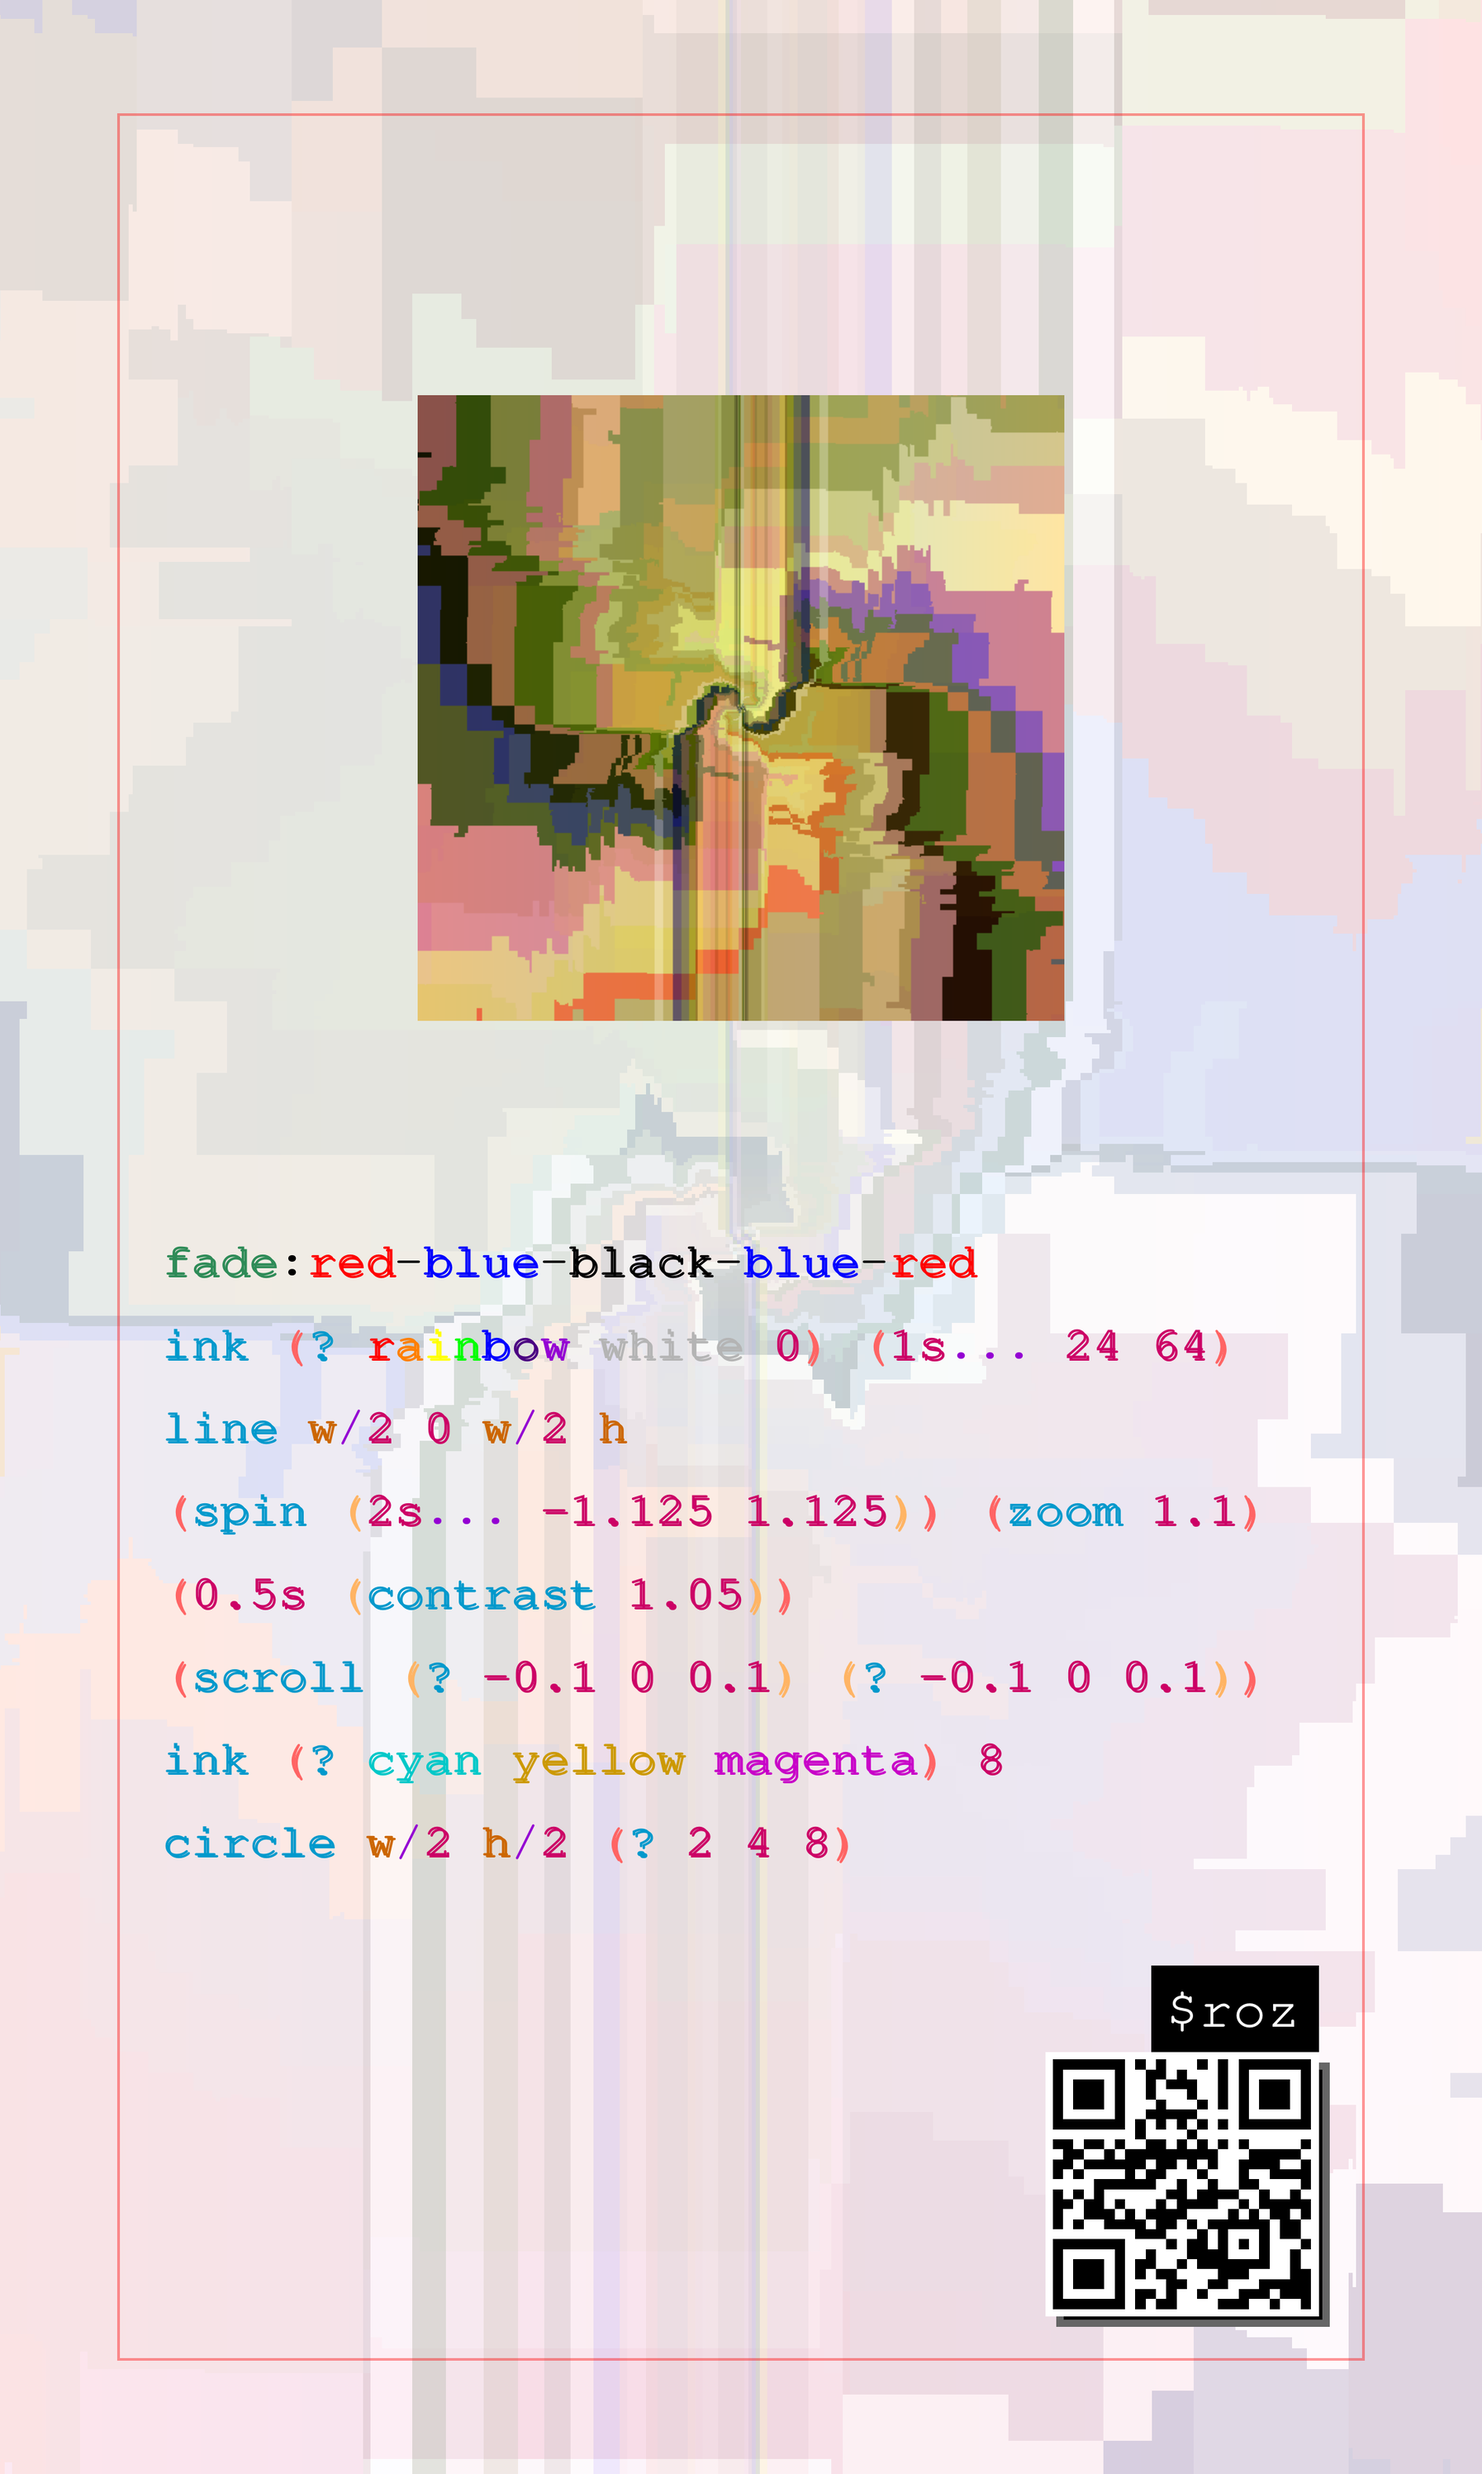
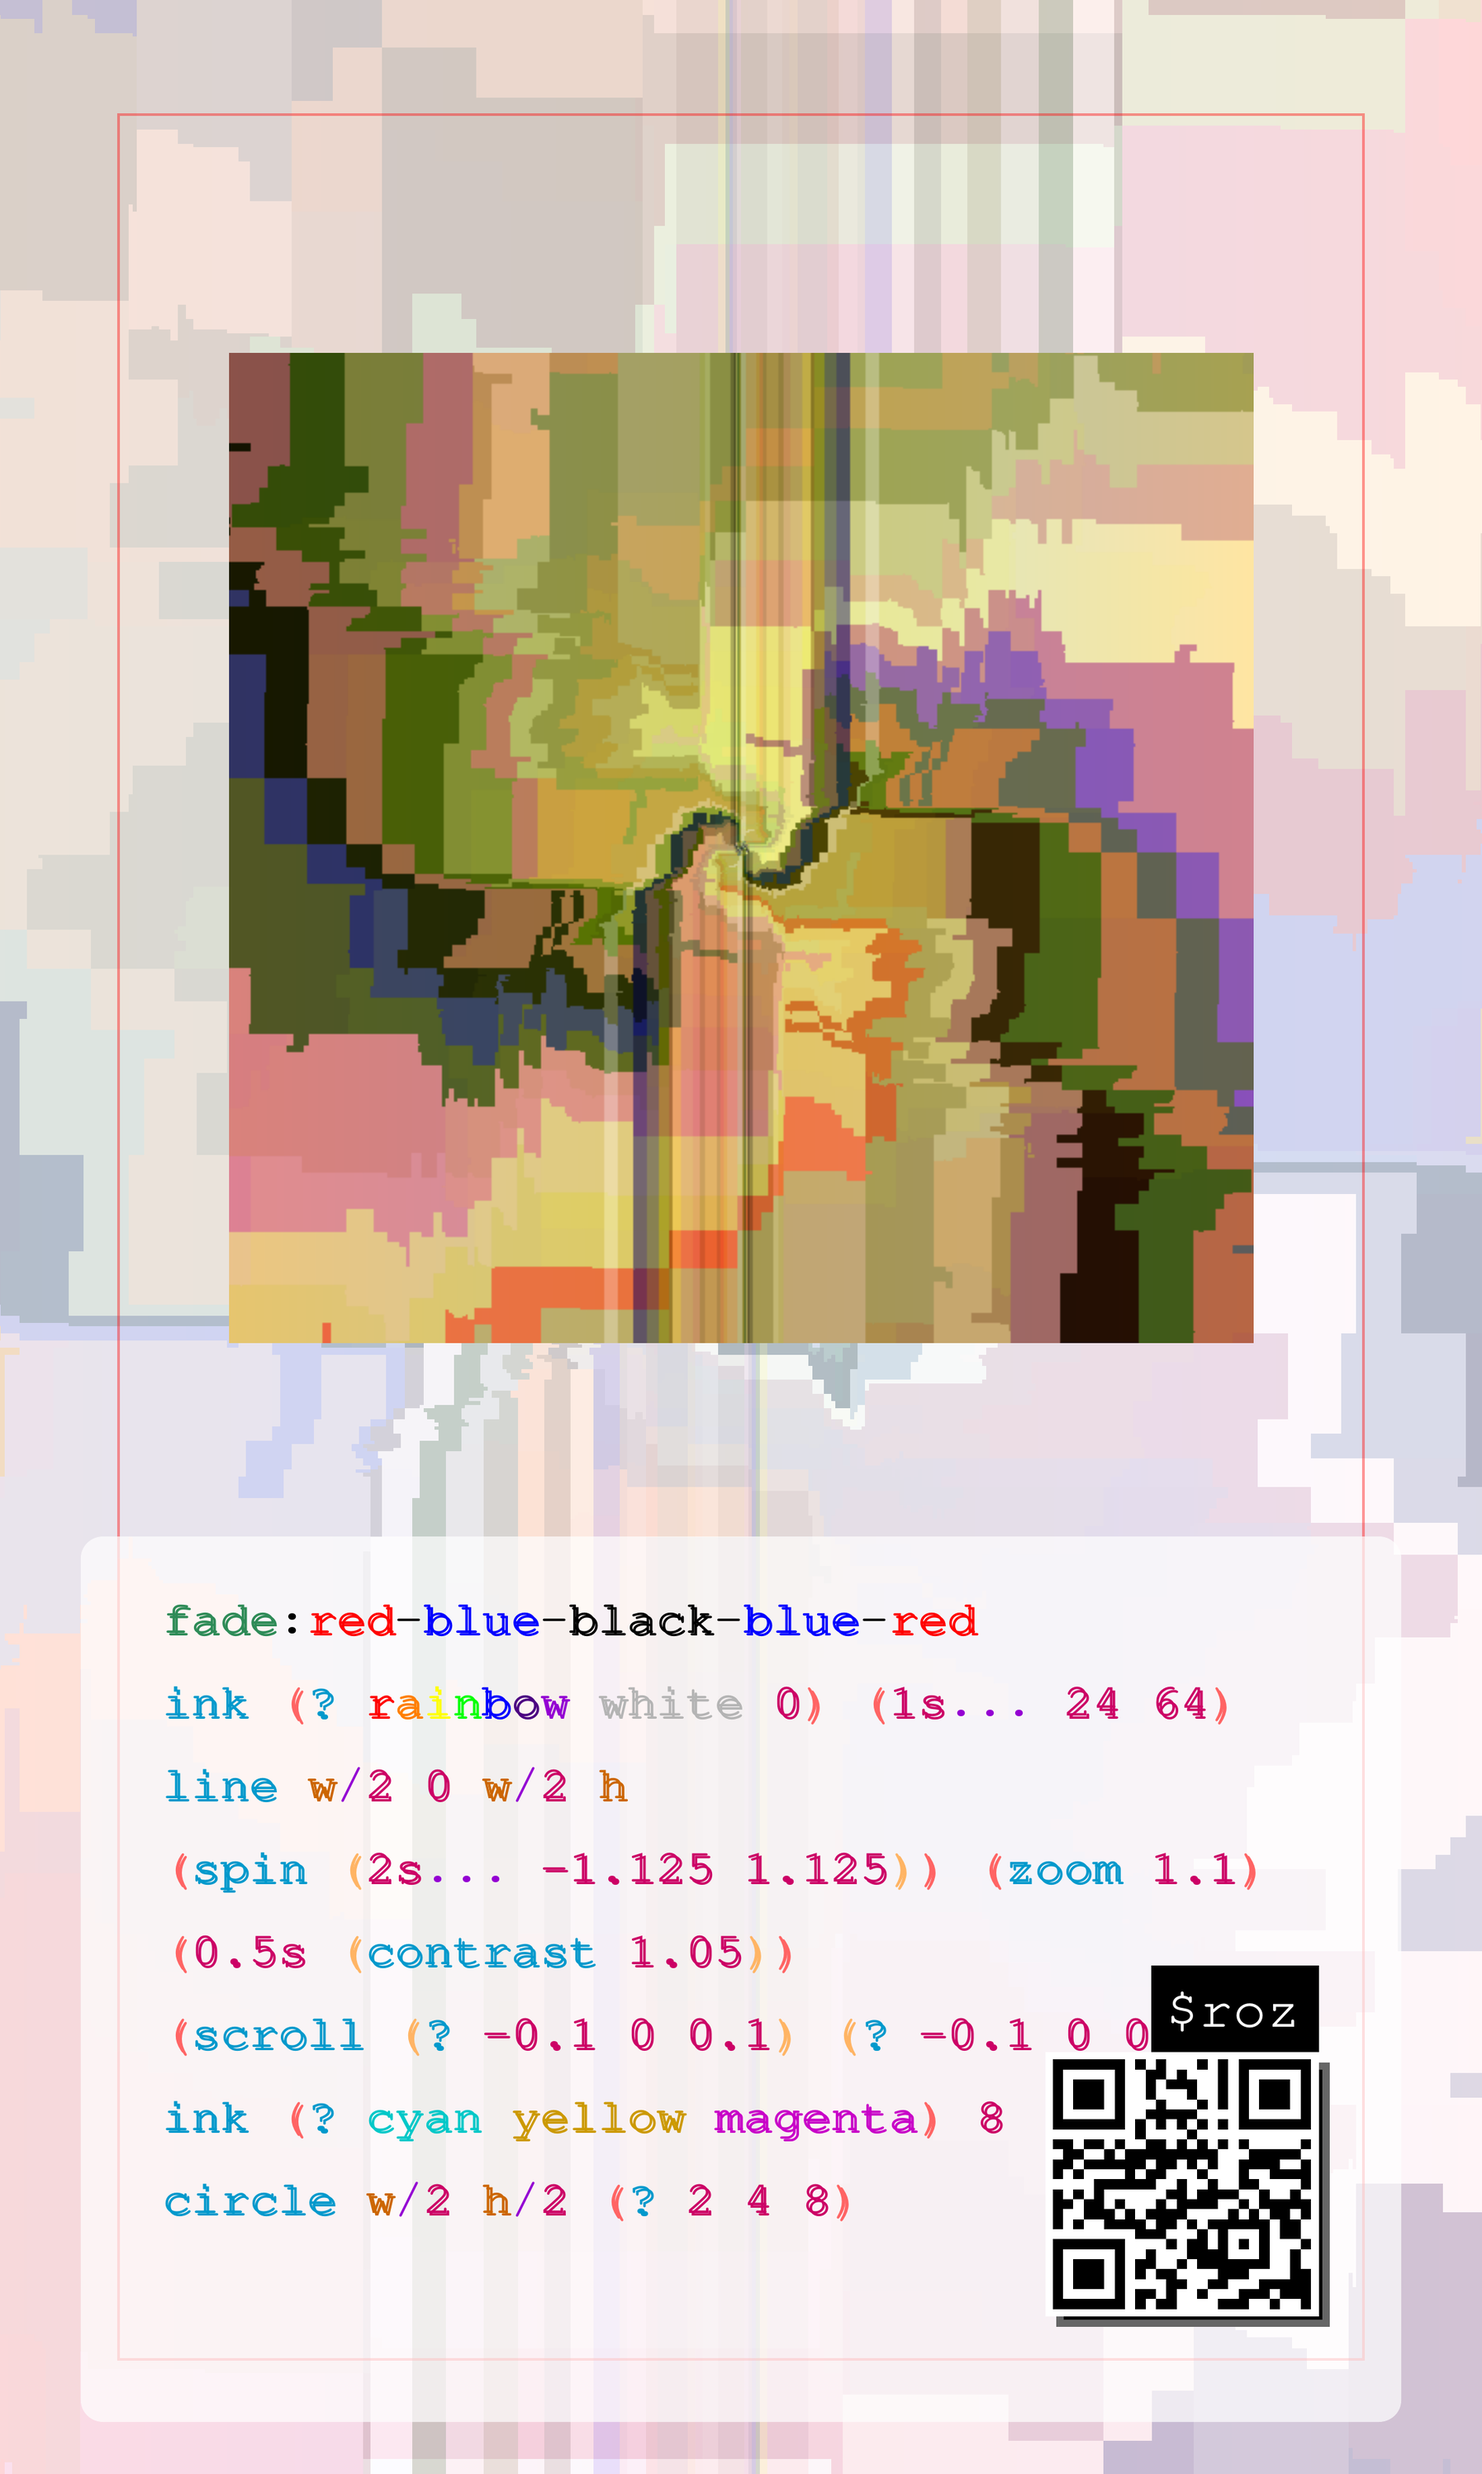
sosoft: bigger thumbnail, inverse-color shadows, white code backing
Larger $roz screenshot, true inverse-color per-character text shadows
(cyan under red, yellow under blue, etc.), white semi-transparent
ground behind source code, stronger background opacity, fresh grabs.

diff --git a/sosoft/card.tex b/sosoft/card.tex
@@ -61,6 +61,20 @@
 \definecolor{rb4}{HTML}{0000ff}
 \definecolor{rb5}{HTML}{4b0082}
 \definecolor{rb6}{HTML}{9400d3}
+% Inverse colors for shadows (255-r, 255-g, 255-b)
+\definecolor{invfn}{RGB}{255,102,51}      % inverse of cyan 0099cc
+\definecolor{invnum}{RGB}{51,255,153}     % inverse of pink cc0066
+\definecolor{invident}{RGB}{51,153,255}   % inverse of orange cc6600
+\definecolor{invgreen}{RGB}{209,116,168}  % inverse of 2e8b57
+\definecolor{invred}{RGB}{0,255,255}      % inverse of red
+\definecolor{invblue}{RGB}{255,255,0}     % inverse of blue
+\definecolor{invblack}{RGB}{255,255,255}  % inverse of black
+\definecolor{invcyan}{RGB}{255,55,55}     % inverse of 0,200,200
+\definecolor{invyellow}{RGB}{51,102,255}  % inverse of cc9900
+\definecolor{invmagenta}{RGB}{55,255,55}  % inverse of 200,0,200
+\definecolor{invwhite}{RGB}{75,75,75}     % inverse of 180,180,180
+\definecolor{invp0}{RGB}{0,155,155}       % inverse of paren red
+\definecolor{invp1}{RGB}{0,75,155}        % inverse of paren orange
 
 \lstdefinestyle{kidlisp-card}{
   basicstyle=\ttfamily\fontsize{6.5pt}{11.5pt}\selectfont\color{ink},
@@ -83,28 +97,37 @@
 \newcommand{\cn}[2]{{\color{#1}#2}}
 \newcommand{\pr}[2]{{\color{#1}#2}}
 
-% Shadow macro with inverse color
+% Shadow macro — #1 is the inverse/opposite color, rendered at 50% behind text
 \newcommand{\sh}[2]{%
   \setbox0=\hbox{#2}%
-  \rlap{\raisebox{-0.35pt}{\hspace{0.35pt}{\color{#1!30}\copy0}}}%
+  \rlap{\raisebox{-0.4pt}{\hspace{0.4pt}{\color{#1!50}\copy0}}}%
   \box0%
 }
-% Per-character rainbow
+% Per-character rainbow (inverse shadow: 255-r, 255-g, 255-b per char)
+% rb0=ff0000→inv 00ffff, rb1=ff7f00→inv 0080ff, rb2=ffff00→inv 0000ff
+% rb3=00ff00→inv ff00ff, rb4=0000ff→inv ffff00, rb5=4b0082→inv b4ff7d, rb6=9400d3→inv 6bff2c
+\definecolor{irb0}{RGB}{0,255,255}
+\definecolor{irb1}{RGB}{0,128,255}
+\definecolor{irb2}{RGB}{0,0,255}
+\definecolor{irb3}{RGB}{255,0,255}
+\definecolor{irb4}{RGB}{255,255,0}
+\definecolor{irb5}{RGB}{180,255,125}
+\definecolor{irb6}{RGB}{107,255,44}
 \newcommand{\rbow}{%
-  \sh{rb4}{\color{rb0}r}%
-  \sh{rb5}{\color{rb1}a}%
-  \sh{rb6}{\color{rb2}i}%
-  \sh{rb0}{\color{rb3}n}%
-  \sh{rb1}{\color{rb4}b}%
-  \sh{rb2}{\color{rb5}o}%
-  \sh{rb3}{\color{rb6}w}%
+  \sh{irb0}{\color{rb0}r}%
+  \sh{irb1}{\color{rb1}a}%
+  \sh{irb2}{\color{rb2}i}%
+  \sh{irb3}{\color{rb3}n}%
+  \sh{irb4}{\color{rb4}b}%
+  \sh{irb5}{\color{rb5}o}%
+  \sh{irb6}{\color{rb6}w}%
 }
 
 \begin{document}
 
 % === Full-bleed faded background ===
 \begin{tikzpicture}[remember picture, overlay]
-  \node[anchor=center, inner sep=0pt, opacity=0.25]
+  \node[anchor=center, inner sep=0pt, opacity=0.35]
     at (current page.center)
     {\includegraphics[width=2.8in, height=4.8in]{roz-bg.png}};
   % Safety margin guide (144px from edge at 652 DPI = 0.22in)
@@ -118,21 +141,27 @@
 
 % === Small square $roz screenshot above the code ===
 \begin{center}
-  \includegraphics[width=1.2in, height=1.2in]{roz-screenshot.png}
+  \includegraphics[width=1.9in, height=1.9in]{roz-screenshot.png}
 \end{center}
 
-\vspace{0.15in}
+\vspace{0.1in}
 
-% === Source code ===
+% === Source code with white backing (only behind code area) ===
+\begin{tikzpicture}[remember picture, overlay]
+  \fill[white, opacity=0.7, rounded corners=3pt]
+    ([xshift=0.15in, yshift=-2.95in]current page.north west)
+    rectangle
+    ([xshift=-0.15in, yshift=0.1in]current page.south east);
+\end{tikzpicture}
 \begin{lstlisting}[style=kidlisp-card]
-|\sh{klred}{\cn{klgreen}{fade}}|:|\sh{klcyan}{\cn{klred}{red}}|-|\sh{klyellow}{\cn{klblue}{blue}}|-|\sh{klwhite}{\cn{klblack}{black}}|-|\sh{klyellow}{\cn{klblue}{blue}}|-|\sh{klcyan}{\cn{klred}{red}}|
-|\sh{klnum}{\fn{ink}}| |\sh{p4}{\pr{p0}{(}}||\sh{klnum}{\fn{?}}| |\rbow| |\sh{ink}{\cn{klwhite}{white}}| |\sh{klfn}{\nm{0}}||\sh{p4}{\pr{p0}{)}}| |\sh{p4}{\pr{p0}{(}}||\sh{klfn}{\nm{1s}}|... |\sh{klfn}{\nm{24}}| |\sh{klfn}{\nm{64}}||\sh{p4}{\pr{p0}{)}}|
-|\sh{klnum}{\fn{line}}| |\sh{klnum}{\id{w}}|/|\sh{klfn}{\nm{2}}| |\sh{klfn}{\nm{0}}| |\sh{klnum}{\id{w}}|/|\sh{klfn}{\nm{2}}| |\sh{klnum}{\id{h}}|
-|\sh{p4}{\pr{p0}{(}}||\sh{klnum}{\xf{spin}}| |\sh{p4}{\pr{p1}{(}}||\sh{klfn}{\nm{2s}}|... |\sh{klfn}{\nm{-1.125}}| |\sh{klfn}{\nm{1.125}}||\sh{p4}{\pr{p1}{)}}||\sh{p4}{\pr{p0}{)}}| |\sh{p4}{\pr{p0}{(}}||\sh{klnum}{\xf{zoom}}| |\sh{klfn}{\nm{1.1}}||\sh{p4}{\pr{p0}{)}}|
-|\sh{p4}{\pr{p0}{(}}||\sh{klfn}{\nm{0.5s}}| |\sh{p4}{\pr{p1}{(}}||\sh{klnum}{\xf{contrast}}| |\sh{klfn}{\nm{1.05}}||\sh{p4}{\pr{p1}{)}}||\sh{p4}{\pr{p0}{)}}|
-|\sh{p4}{\pr{p0}{(}}||\sh{klnum}{\xf{scroll}}| |\sh{p4}{\pr{p1}{(}}||\sh{klnum}{\fn{?}}| |\sh{klfn}{\nm{-0.1}}| |\sh{klfn}{\nm{0}}| |\sh{klfn}{\nm{0.1}}||\sh{p4}{\pr{p1}{)}}| |\sh{p4}{\pr{p1}{(}}||\sh{klnum}{\fn{?}}| |\sh{klfn}{\nm{-0.1}}| |\sh{klfn}{\nm{0}}| |\sh{klfn}{\nm{0.1}}||\sh{p4}{\pr{p1}{)}}||\sh{p4}{\pr{p0}{)}}|
-|\sh{klnum}{\fn{ink}}| |\sh{p4}{\pr{p0}{(}}||\sh{klnum}{\fn{?}}| |\sh{klred}{\cn{klcyan}{cyan}}| |\sh{klblue}{\cn{klyellow}{yellow}}| |\sh{klgreen}{\cn{klmagenta}{magenta}}||\sh{p4}{\pr{p0}{)}}| |\sh{klfn}{\nm{8}}|
-|\sh{klnum}{\fn{circle}}| |\sh{klnum}{\id{w}}|/|\sh{klfn}{\nm{2}}| |\sh{klnum}{\id{h}}|/|\sh{klfn}{\nm{2}}| |\sh{p4}{\pr{p0}{(}}||\sh{klnum}{\fn{?}}| |\sh{klfn}{\nm{2}}| |\sh{klfn}{\nm{4}}| |\sh{klfn}{\nm{8}}||\sh{p4}{\pr{p0}{)}}|
+|\sh{invgreen}{\cn{klgreen}{fade}}|:|\sh{invred}{\cn{klred}{red}}|-|\sh{invblue}{\cn{klblue}{blue}}|-|\sh{invblack}{\cn{klblack}{black}}|-|\sh{invblue}{\cn{klblue}{blue}}|-|\sh{invred}{\cn{klred}{red}}|
+|\sh{invfn}{\fn{ink}}| |\sh{invp0}{\pr{p0}{(}}||\sh{invfn}{\fn{?}}| |\rbow| |\sh{invwhite}{\cn{klwhite}{white}}| |\sh{invnum}{\nm{0}}||\sh{invp0}{\pr{p0}{)}}| |\sh{invp0}{\pr{p0}{(}}||\sh{invnum}{\nm{1s}}|... |\sh{invnum}{\nm{24}}| |\sh{invnum}{\nm{64}}||\sh{invp0}{\pr{p0}{)}}|
+|\sh{invfn}{\fn{line}}| |\sh{invident}{\id{w}}|/|\sh{invnum}{\nm{2}}| |\sh{invnum}{\nm{0}}| |\sh{invident}{\id{w}}|/|\sh{invnum}{\nm{2}}| |\sh{invident}{\id{h}}|
+|\sh{invp0}{\pr{p0}{(}}||\sh{invfn}{\xf{spin}}| |\sh{invp1}{\pr{p1}{(}}||\sh{invnum}{\nm{2s}}|... |\sh{invnum}{\nm{-1.125}}| |\sh{invnum}{\nm{1.125}}||\sh{invp1}{\pr{p1}{)}}||\sh{invp0}{\pr{p0}{)}}| |\sh{invp0}{\pr{p0}{(}}||\sh{invfn}{\xf{zoom}}| |\sh{invnum}{\nm{1.1}}||\sh{invp0}{\pr{p0}{)}}|
+|\sh{invp0}{\pr{p0}{(}}||\sh{invnum}{\nm{0.5s}}| |\sh{invp1}{\pr{p1}{(}}||\sh{invfn}{\xf{contrast}}| |\sh{invnum}{\nm{1.05}}||\sh{invp1}{\pr{p1}{)}}||\sh{invp0}{\pr{p0}{)}}|
+|\sh{invp0}{\pr{p0}{(}}||\sh{invfn}{\xf{scroll}}| |\sh{invp1}{\pr{p1}{(}}||\sh{invfn}{\fn{?}}| |\sh{invnum}{\nm{-0.1}}| |\sh{invnum}{\nm{0}}| |\sh{invnum}{\nm{0.1}}||\sh{invp1}{\pr{p1}{)}}| |\sh{invp1}{\pr{p1}{(}}||\sh{invfn}{\fn{?}}| |\sh{invnum}{\nm{-0.1}}| |\sh{invnum}{\nm{0}}| |\sh{invnum}{\nm{0.1}}||\sh{invp1}{\pr{p1}{)}}||\sh{invp0}{\pr{p0}{)}}|
+|\sh{invfn}{\fn{ink}}| |\sh{invp0}{\pr{p0}{(}}||\sh{invfn}{\fn{?}}| |\sh{invcyan}{\cn{klcyan}{cyan}}| |\sh{invyellow}{\cn{klyellow}{yellow}}| |\sh{invmagenta}{\cn{klmagenta}{magenta}}||\sh{invp0}{\pr{p0}{)}}| |\sh{invnum}{\nm{8}}|
+|\sh{invfn}{\fn{circle}}| |\sh{invident}{\id{w}}|/|\sh{invnum}{\nm{2}}| |\sh{invident}{\id{h}}|/|\sh{invnum}{\nm{2}}| |\sh{invp0}{\pr{p0}{(}}||\sh{invfn}{\fn{?}}| |\sh{invnum}{\nm{2}}| |\sh{invnum}{\nm{4}}| |\sh{invnum}{\nm{8}}||\sh{invp0}{\pr{p0}{)}}|
 \end{lstlisting}
 
 \vspace*{\fill}
